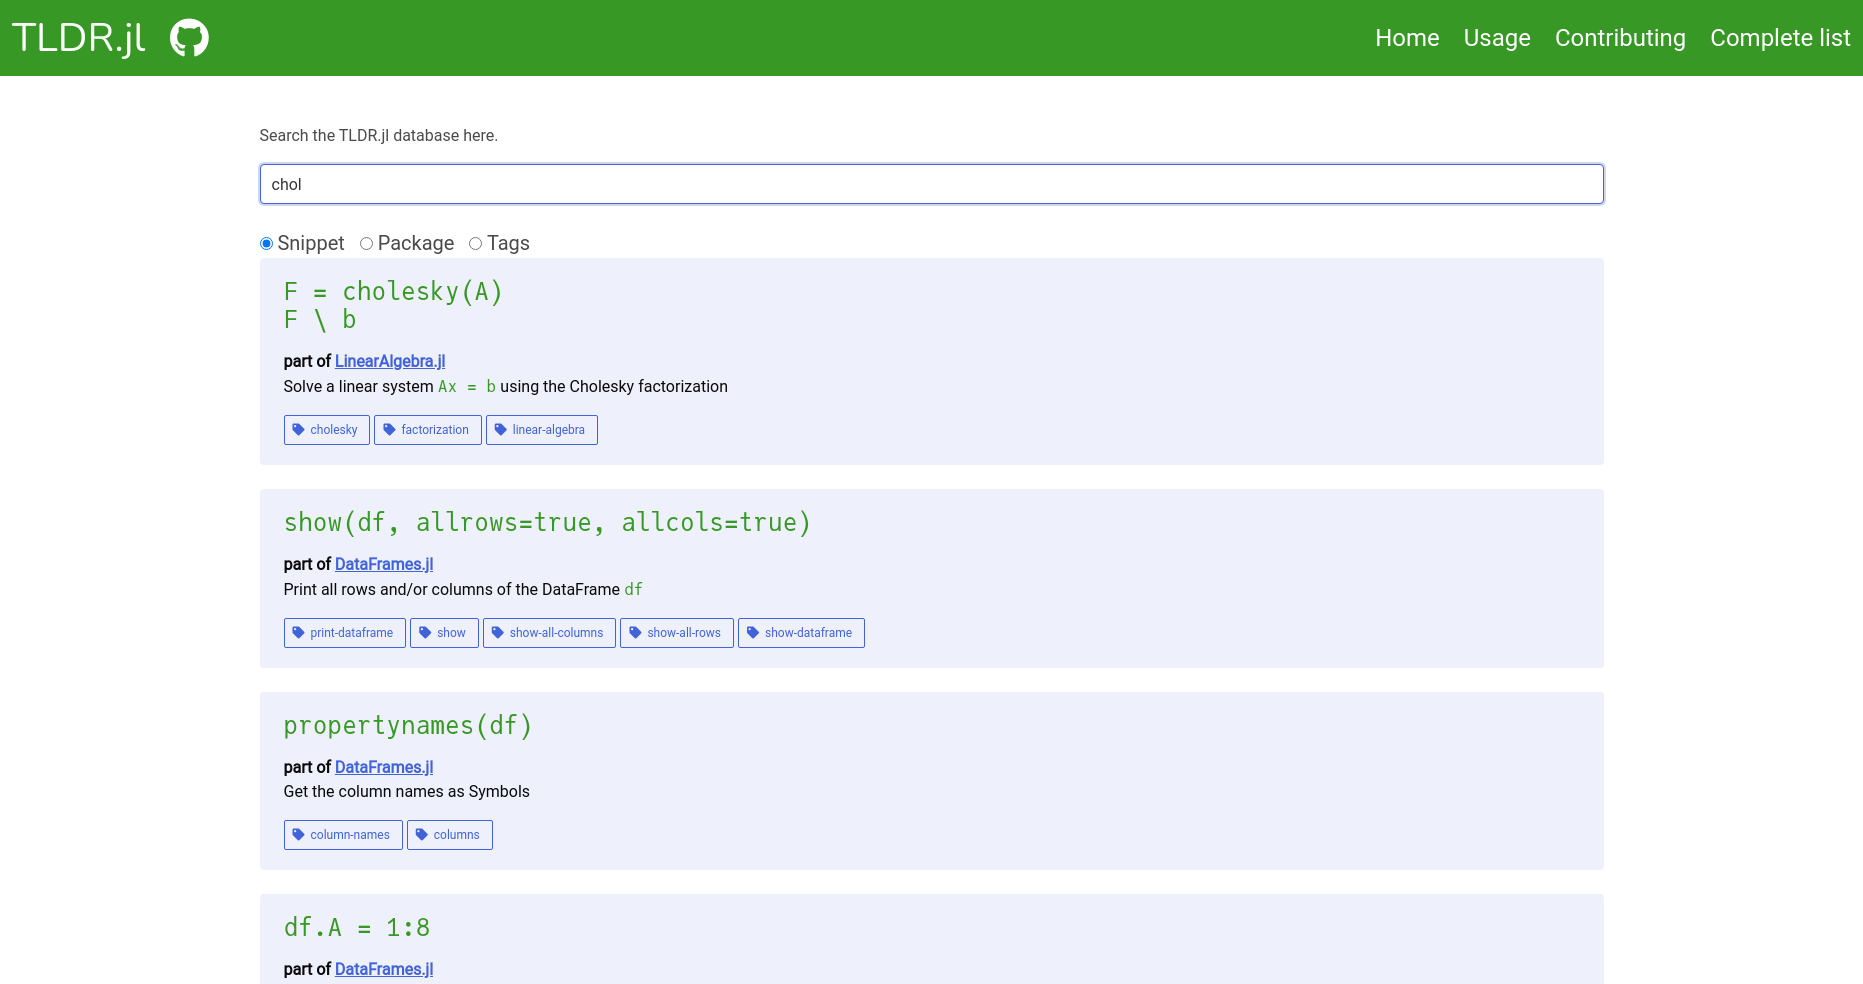
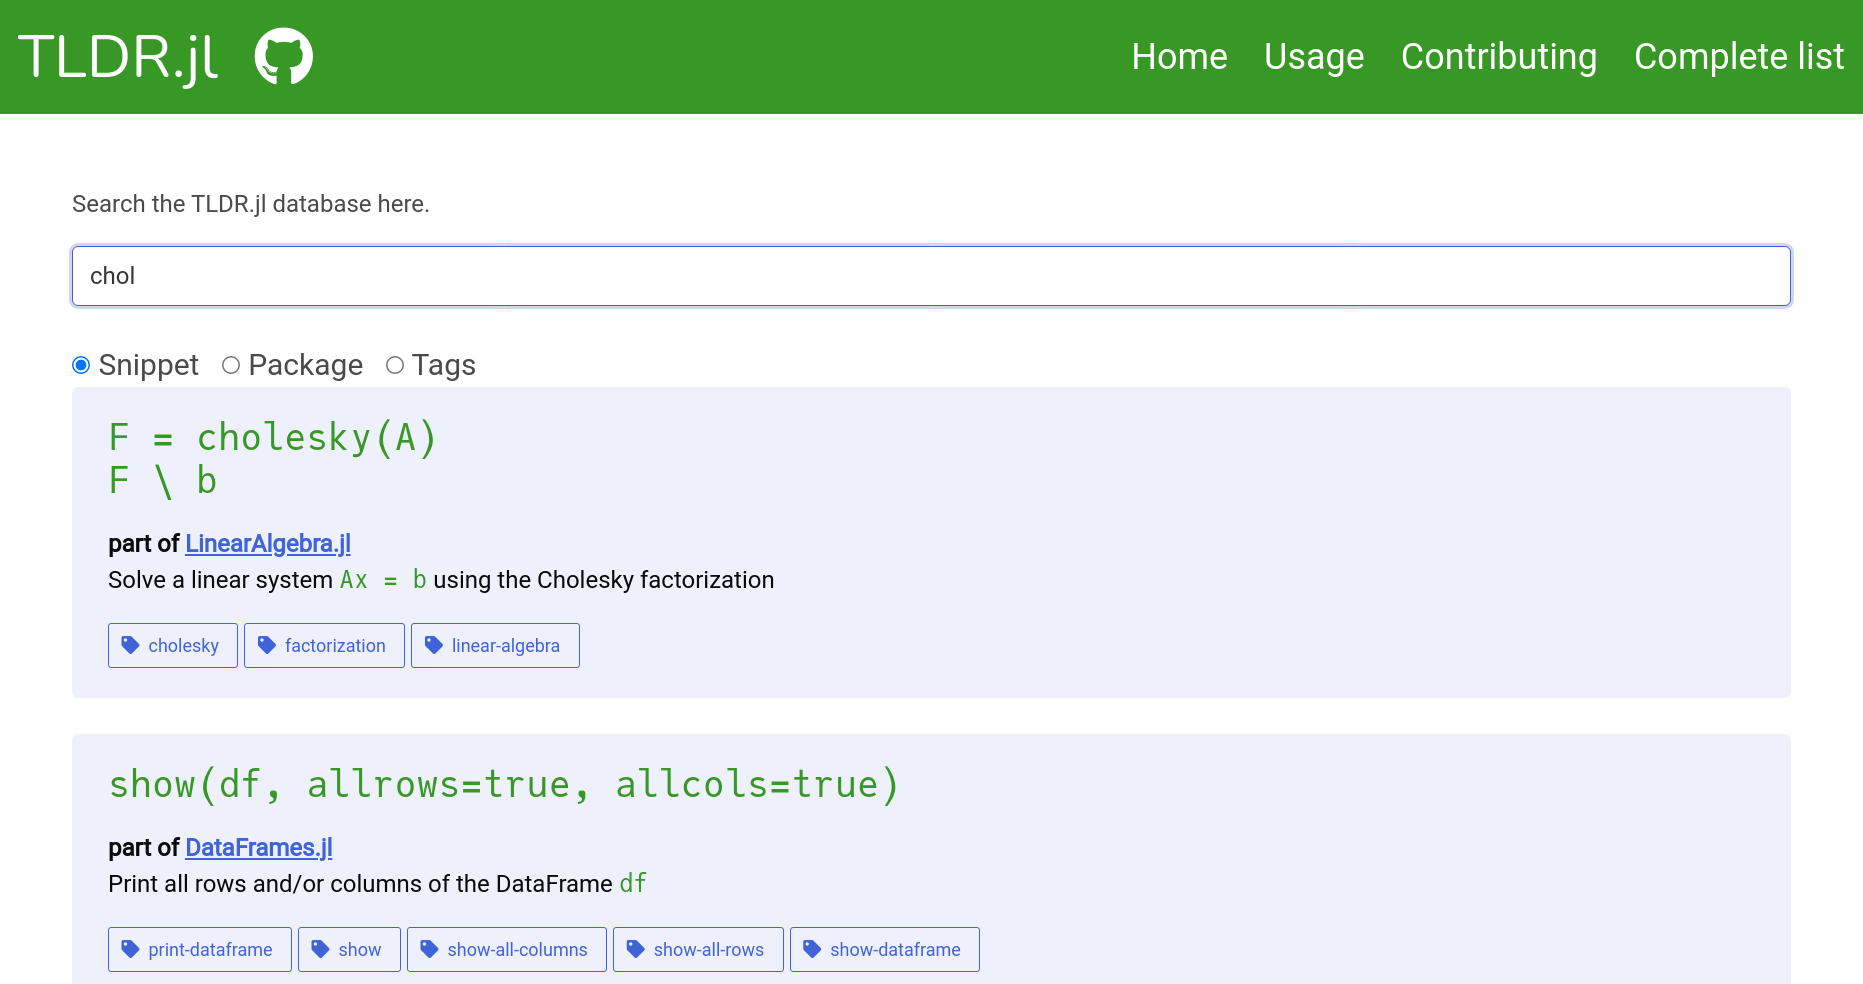
Update image

diff --git a/README.md b/README.md
@@ -20,5 +20,5 @@ I have created a proof-of-concept of the search online: https://abelsiqueira.git
 Here's a sneak peak:
 
 <a href="https://abelsiqueira.github.io/TLDR.jl/">
-  <img width="70%" src="site-preview.png">
+  <img width="90%" src="site-preview.png">
 </a>
